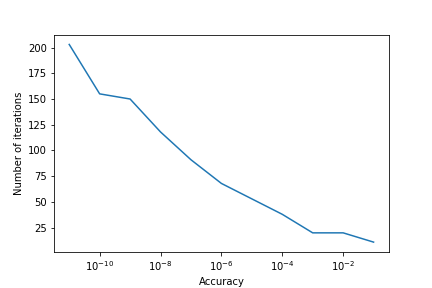
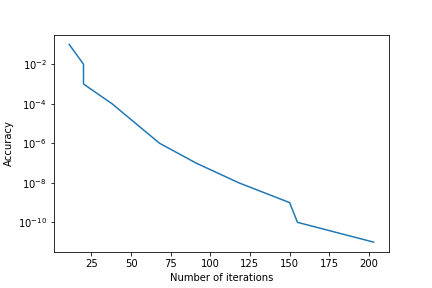
report updated

diff --git a/report/report.tex b/report/report.tex
@@ -6,6 +6,7 @@
 \usepackage{amssymb}
 \usepackage{setspace}
 \usepackage{graphicx}
+\usepackage{subcaption}
 
 % Questa linea raddoppia lo spazio tra una riga e l'altra per tutto il documento %
 \doublespacing
@@ -87,7 +88,9 @@ The algorithm performs at every step two multiplications  (one is enough if we c
 So, the total cost is $n(O(mn) + O((nm)) + O(n)) \approx O(n^2m)$, where $O(n)$ comes from the scalars product between $n$-vectors to compute the norms for every steps.
 
 The convergence of the Conjugate Gradient Method depends on the maximum eigenvalue $\lambda_{max}$ and the minimum eigenvalue $\lambda_{min}$, and CG converges with rate 
-\\$\|x-x_{k}\| \leq \left\lVert\frac{\sqrt{\lambda_{max}}-\sqrt{\lambda_{min}}}{\sqrt{\lambda_{max}}+\sqrt{\lambda_{min}}}\right\rVert^{k} \leq \|x - x_{0}\|$
+\[
+\|x-x_{k}\| \leq \left\lVert\frac{\sqrt{\lambda_{max}}-\sqrt{\lambda_{min}}}{\sqrt{\lambda_{max}}+\sqrt{\lambda_{min}}}\right\rVert^{k} \leq \|x - x_{0}\| \label{eq:cgconv}
+\]
 
 \subsection{QR with HouseHolder}\label{subsec:qr-with-householder}
 The QR factorization has a cancellation problem during the Householder reflector construction that is easily fixed by summing first entry and norm instead of subtract it.
@@ -229,7 +232,7 @@ Moreover, for the QR factorization, we are going to test how the computational c
 
 \subsection{Time}\label{subsec:time}
 For the time results we averaged 1000 run using \textit{time.monotonic\_ns()}, and we removed the best and worst 100 ones.
-The CG method is $\sim 4$ times faster than the QR method: for the QR method we need n steps to compute the n $v_{i}$'s vector and the matrix $R$, while the CG method is an iterative method and we can choose after how many iterations to stop. In Table \ref{tab:table4} we report the results obtained performing the CG method for $n$ iterations, since theoretically this algorithm should return the exact solution after $n$ steps. However, after such a low number of iterations we fail to achieve a good accuracy. Plot in Fiugre \ref{cg_acc} shows how the number of iterations changes according to different levels of accuracy required by the algorithm. The maximum level of accuracy reached by the CG method applied to our problem is $\approx 10^{-11}$. After that the rounding-off errors accomulate a lot and the algorithm no longer converges. This is because our problem is ill conditioned.
+The CG method is $\sim 4$ times faster than the QR method: for the QR method we need n steps to compute the n $v_{i}$'s vector and the matrix $R$, while the CG method is an iterative method and we can choose after how many iterations to stop. In Table \ref{tab:table4} we report the results obtained performing the CG method for $n$ iterations, since theoretically this algorithm should return the exact solution after $n$ steps. However, after such a low number of iterations we fail to achieve a good accuracy. Plots in Fiugre \ref{cg_acc} show how the number of iterations changes according to different levels of accuracy required by the algorithm. The maximum level of accuracy reached by the CG method applied to our problem is $\approx 10^{-11}$ [figure \ref{cg_acc1}]. After that the rounding-off errors accomulate a lot and the algorithm no longer converges. This is because our problem is ill conditioned. In fact, if we execute the same approach to a random problem (random matrix $A$ and random vector $b$ with the same dimensions and the same ranges of values of our inputs) we note that [figure \ref{cg_acc2}] the number of iterations required to get the same accuracy is definitely lower. These graphs show also that the convergence of the CG method is almost linear, as \ref{eq:cgconv} states.
 
 \subsection{Space}\label{subsec:space}
 With space we mean the additional number of bytes used by the methods in addition to the inputs, we measured it with \textit{numpy.array.nbytes}.
@@ -268,10 +271,22 @@ The computational cost of the QR method scales linearly with the largest dimensi
 By looking at the plots, we see that the QR methods scales quadratically for square matrices [figure~\ref{square}], almost linearly for $m>n$ [figure~\ref{little_m}] and linearly for $m\gg n$ [figure~\ref{big_m}] as expected.
 In all the 3 cases, CG outperform QR in terms of time.
          \begin{figure}
-            \includegraphics[width=\linewidth]{../results/cg_accuracy.png}
-            \caption{CG accuracy: number of iterations required to get a specific accuracy value with the CG method applied to our problem}
-            \label{cg_acc}
-        \end{figure}
+		\centering
+		\begin{subfigure}{.5\textwidth}
+  		\centering
+ 		 \includegraphics[width=\textwidth]{../results/cg_accuracy.png}
+  		\caption{convergence of our problem}
+  		\label{cg_acc1}
+		\end{subfigure}%
+		\begin{subfigure}{.5\textwidth}
+ 		 \centering
+ 		 \includegraphics[width=\textwidth]{../results/cg_accuracy_rand.png}
+ 		 \caption{convergence of a random problem}
+ 		 \label{cg_acc2}
+		\end{subfigure}
+		\caption{CG accuracy: number of iterations required to get a specific accuracy value }
+		\label{cg_acc}
+	\end{figure}
          \begin{figure}
             \includegraphics[width=\linewidth]{../results/qr_linear_scaling.png}
             \caption{QR computational time: time required to solve the ML-cup LS problem with the first m rows of A}
@@ -292,11 +307,11 @@ In all the 3 cases, CG outperform QR in terms of time.
             \caption{QR and CG methods: Computational time w.r.t. dimension m for tall thin matrix mxn with $m \gg n$}
             \label{big_m}
         \end{figure}
+	
 
 
 \section{Conclusion}\label{sec:conclusion}
-(ABBOZZATA IN DUE MINUTI, SI PUò ANCHE TOGLIERE IN QUANTO NON RICHIESTA, MA SENZA CONCLUSIONE MI SEMBRAVA UN POCHINO TRISTE)
-Both QR and CG methods did solve the high conditioned LS problem of ML-cup, but the QR method is two order of magnitude mode accurate and, as opposite as CG method, it doesn't require an initial point, a formula for $\beta$ and a number of iteration.
+Both QR and CG methods did solve the high conditioned LS problem of ML-cup, but the QR method is two order of magnitude more accurate and, as opposite as CG method, it doesn't require an initial point, a formula for $\beta$ and a number of iteration.
 Anyway, the CG method was $\sim 4$ times faster than the QR one, and it is more suitable for large problem because the space it needs is $O(n)$ instead of $O(n^{2})$.
 
 \bibliography{bibliography}

diff --git a/test_cg.py b/test_cg.py
@@ -23,6 +23,8 @@ print("iterations: ", ite)
 print("||Ax - b|| = ", norm(np.matmul(A, x) - b))
 print("||Ax - b||/||b|| =", np.divide(norm(np.matmul(A, x) - b), norm(b)))
 print("||A*Ax - A*b|| =", norm(np.matmul(np.transpose(A),np.matmul(A, x)) - np.matmul(np.transpose(A),b)))
+
+
 Q, R = np.linalg.qr(A)
 print("||Q^T (Ax - b)||", norm(np.matmul(Q.T, np.matmul(A, x) - b)))
 
@@ -35,6 +37,7 @@ print("numpy.linalg.qr: ns spent: ", elapsed)
 print("||Ax - b|| =", norm(np.matmul(A, xnp[0]) - b))
 print("||Ax - b||/||b|| =", np.divide(norm(np.matmul(A, xnp[0]) - b), norm(b)))
 print("||A*Ax - A*b|| =", norm(np.matmul(np.transpose(A),np.matmul(A, x)) - np.matmul(np.transpose(A),b)))
+
 
 cg_tries = []
 for count in tqdm.tqdm(range(1000)):
@@ -54,16 +57,33 @@ for exponent in range(-11, 0):
     acc.append(10**exponent)
 acc.reverse()
 
+A_ = np.random.rand(m, n)
+b_ = np.random.rand(m)
+r_min = A_.min()
+r_max = A_.max()
+b_min = b_.min()
+b_max = b_.max()
+A_ = (((A_ - r_min) / (r_max - r_min)) * (A.max() - A.min())) + A.min()
+b_ = (((b_ - b_min) / (b_max - b_min)) * (b.max() - b.min())) + b.min()
 iterations = []
+iterations_ = []
 for eps in acc:
     x, status, ite = conjugate_gradient(A, b, eps = eps, maxIter=1000000)
+    x_, status_, ite_ = conjugate_gradient(A_, b_, eps = eps, maxIter=1000000)
     iterations.append(ite)
+    iterations_.append(ite_)
     
 # Creating plot
 print("Creating plot...")
-plt.plot(acc, iterations)
-plt.ylabel("Number of iterations")
-plt.xlabel("Accuracy")
-plt.xscale('log',basex=10) 
+plt.plot(iterations, acc)
+plt.xlabel("Number of iterations")
+plt.ylabel("Accuracy")
+plt.yscale('log',basey=10) 
 plt.savefig("results/cg_accuracy.png")
+plt.show()
+plt.plot(iterations_, acc)
+plt.xlabel("Number of iterations")
+plt.ylabel("Accuracy")
+plt.yscale('log',basey=10) 
+plt.savefig("results/cg_accuracy_rand.png")
 plt.show()

diff --git a/conjugate_gradient.py b/conjugate_gradient.py
@@ -61,7 +61,6 @@ def conjugate_gradient(A, b, x0 = None, eps = None, maxIter = 1000):
             
         i = i+1
         
-    #print("||g|| = ", norm(g))
 
     return x, status, i-1               
 
